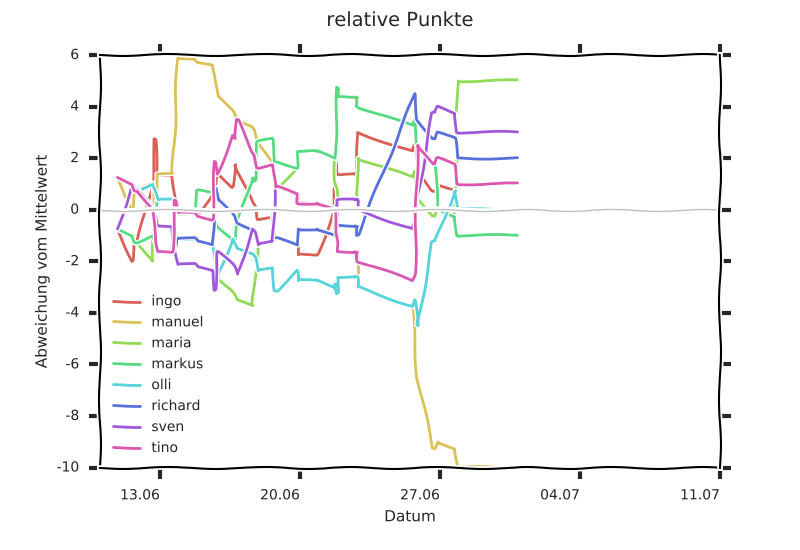
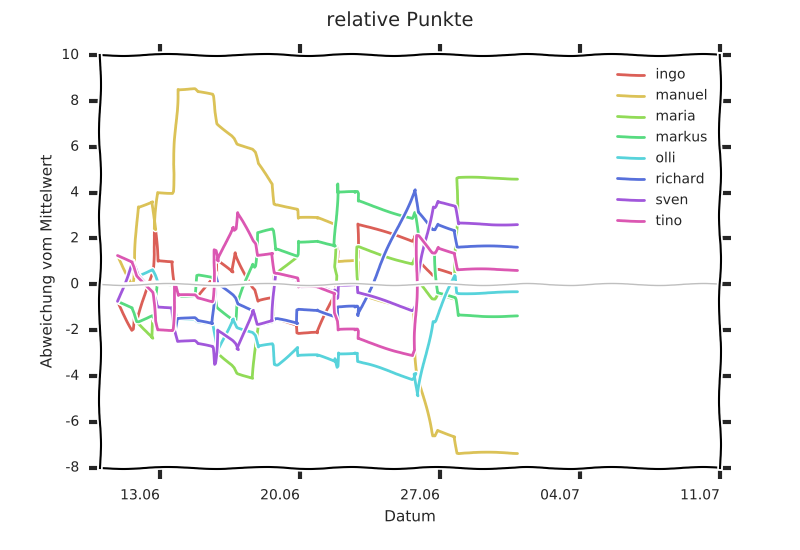
neue standings

diff --git a/index.html b/index.html
@@ -24,7 +24,7 @@
       <th style="min-width: 60;">2016-07-01 21:00:00</th>
       <th style="min-width: 60;">Wales - Belgien</th>
       <td>1 - 3</td>
-      <td>2 - 1</td>
+      <td>1 - 2</td>
       <td>0 - 2</td>
       <td>1 - 2</td>
       <td>1 - 2</td>
